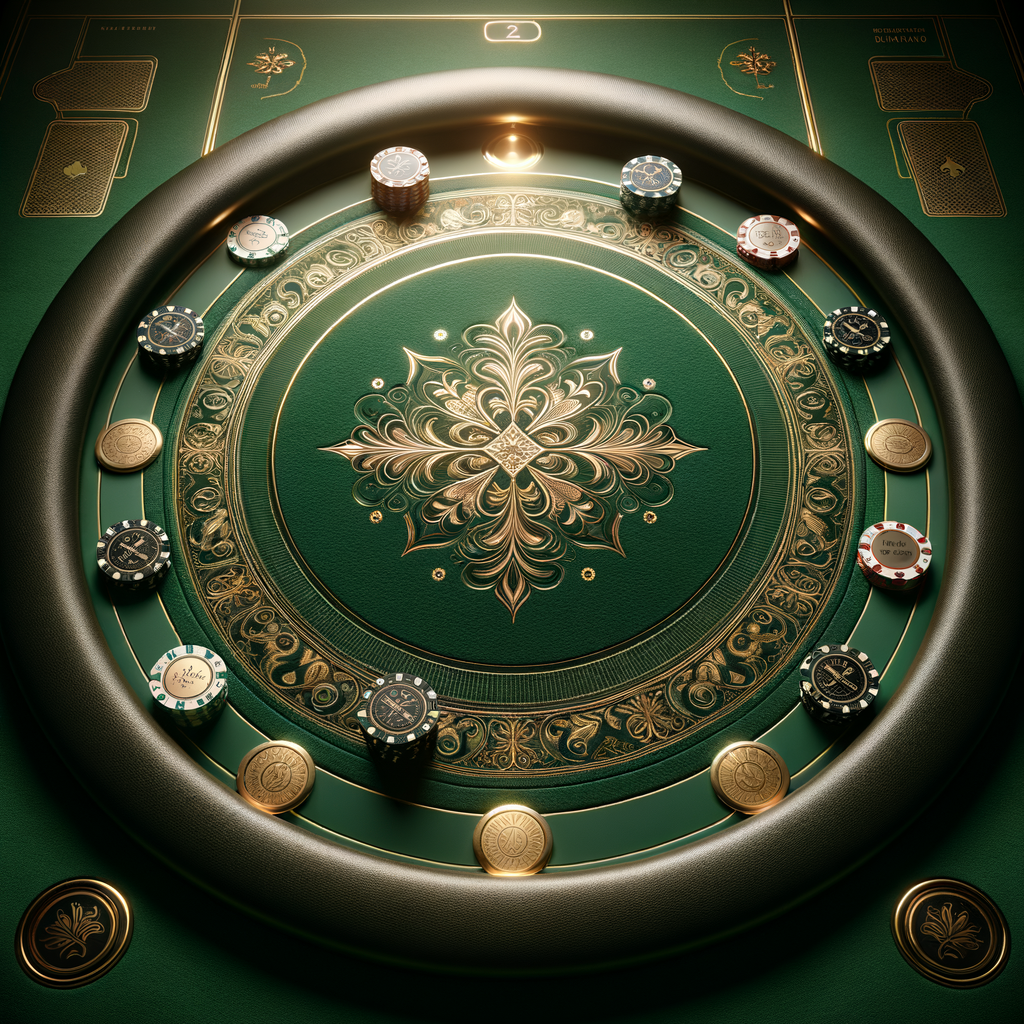
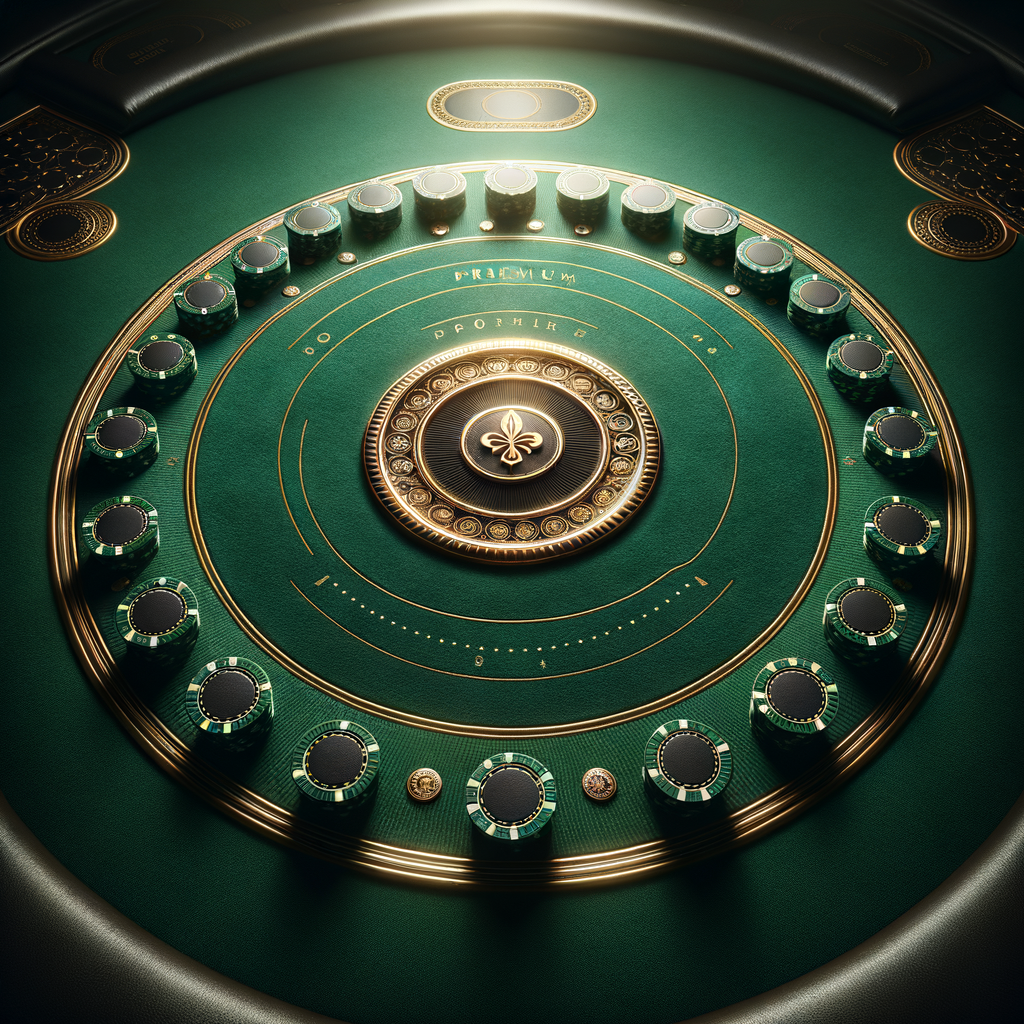
VIP Poker overhaul: cards on table, 3D buttons, new images, no confetti
- Player cards moved ON the table (bottom edge, overlapping oval)
  with name, bet and hand name shown below
- Human strip simplified to avatar + chips + bet only
- 3D buttons: thick bottom border creates depth, snaps on :active
  (Fold=red, Check=green, Call=blue, Raise=orange, AllIn=purple, Deal=gold)
- New DALL-E HD felt texture: deep emerald with gold ring watermark
- New room background: dark VIP lounge, zero furniture visible
- slots.html: rainbow mega-win text → gold shimmer animation
- SocialWins: gold coin shower restored (was wrongly disabled)

diff --git a/public/index.html b/public/index.html
@@ -3555,7 +3555,7 @@ body { color: #e8e2d4 !important; }
   align-items: center;
   justify-content: center;
   min-height: 380px;
-  padding: 0;
+  padding: 0 0 80px 0; /* bottom space for player cards below table */
 }
 
 /* ── THE OVAL TABLE ── */
@@ -3718,6 +3718,34 @@ body { color: #e8e2d4 !important; }
   transform: translateY(-50%);
 }
 
+/* ── PLAYER CARDS ON TABLE ── */
+.pp-on-table-player {
+  position: absolute;
+  bottom: -68px;
+  left: 50%; transform: translateX(-50%);
+  display: flex; flex-direction: column; align-items: center; gap: 3px;
+  z-index: 20;
+  pointer-events: none;
+}
+.pp-on-table-label {
+  font-size: 9px; font-weight: 700; color: rgba(201,168,76,0.8);
+  letter-spacing: 1.5px; text-transform: uppercase;
+  text-shadow: 0 1px 4px rgba(0,0,0,0.8);
+  white-space: nowrap;
+}
+.pp-on-table-bet { color: #f0c060; }
+.pp-on-table-cards {
+  display: flex; gap: 8px;
+  filter: drop-shadow(0 4px 12px rgba(0,0,0,0.7)) drop-shadow(0 0 8px rgba(201,168,76,0.25));
+}
+.pp-on-table-hand {
+  font-size: 9px; color: #f0c060; font-weight: 700;
+  letter-spacing: 1px; text-shadow: 0 0 8px rgba(240,192,96,0.5);
+}
+.pp-on-table-folded {
+  font-size: 9px; color: rgba(255,100,100,0.7); letter-spacing: 2px;
+}
+
 /* ── HUMAN STRIP ── */
 .pp-human-strip {
   display: flex; align-items: center;
@@ -3767,27 +3795,87 @@ body { color: #e8e2d4 !important; }
 }
 .pp-btn-row { display: flex; gap: 7px; }
 .pp-btn {
-  flex: 1; padding: 13px 6px; border: none; border-radius: 10px;
+  flex: 1; padding: 13px 6px;
+  border: none; border-radius: 10px;
   font-weight: 700; font-size: 12px; letter-spacing: 0.3px;
   cursor: pointer; font-family: 'Space Grotesk',sans-serif;
-  transition: opacity 0.15s, transform 0.1s, box-shadow 0.15s;
   line-height: 1.2; text-align: center;
+  position: relative;
+  /* 3D effect */
+  transform: translateY(0px);
+  transition: transform 0.08s ease, box-shadow 0.08s ease, filter 0.08s ease;
 }
-.pp-btn:active { transform: scale(0.93); opacity: 0.82; }
+.pp-btn:active {
+  transform: translateY(3px) !important;
+  filter: brightness(0.88);
+}
+.pp-btn:hover { filter: brightness(1.12); }
+
+/* DEAL — gold 3D */
 .pp-btn-deal {
-  background: linear-gradient(135deg, #d4a840 0%, #b08030 50%, #c9a84c 100%);
-  color: #0a0704; font-size: 15px; padding: 15px;
+  background: linear-gradient(180deg, #f0d060 0%, #c9a030 40%, #a07820 100%);
+  color: #2a1800; font-size: 15px; padding: 15px;
   font-family: 'Cinzel',serif; letter-spacing: 2.5px; font-weight: 900;
-  box-shadow: 0 4px 28px rgba(201,168,76,0.45), 0 0 0 1px rgba(255,215,0,0.2);
-  border: 1px solid rgba(255,215,0,0.35);
-  text-shadow: 0 1px 2px rgba(0,0,0,0.2);
+  border-top: 1px solid rgba(255,240,120,0.6);
+  border-bottom: 4px solid #7a5810;
+  box-shadow: 0 6px 24px rgba(201,168,76,0.5), 0 2px 0 rgba(255,220,80,0.3);
+  text-shadow: 0 1px 0 rgba(255,255,255,0.3);
 }
-.pp-btn-deal:hover { box-shadow: 0 6px 36px rgba(201,168,76,0.6), 0 0 0 1px rgba(255,215,0,0.3); }
-.pp-btn-fold  { background: linear-gradient(135deg, #b03044, #8a1f30); color: #fff; box-shadow: 0 3px 14px rgba(176,48,68,0.35); }
-.pp-btn-check { background: linear-gradient(135deg, #27784a, #1a5534); color: #fff; box-shadow: 0 3px 14px rgba(39,120,74,0.35); }
-.pp-btn-call  { background: linear-gradient(135deg, #1258aa, #0c3d7a); color: #fff; box-shadow: 0 3px 14px rgba(18,88,170,0.35); }
-.pp-btn-raise { background: linear-gradient(135deg, #b84800, #8a3400); color: #fff; box-shadow: 0 3px 14px rgba(184,72,0,0.35); }
-.pp-btn-allin { background: linear-gradient(135deg, #6a1b9a, #4a0f72); color: #fff; box-shadow: 0 3px 14px rgba(106,27,154,0.4); border: 1px solid rgba(180,80,255,0.2); }
+.pp-btn-deal:active { border-bottom-width: 1px; }
+
+/* FOLD — red 3D */
+.pp-btn-fold {
+  background: linear-gradient(180deg, #d94058 0%, #9e2035 100%);
+  color: #fff;
+  border-top: 1px solid rgba(255,120,140,0.4);
+  border-bottom: 4px solid #5c1020;
+  box-shadow: 0 4px 16px rgba(176,48,68,0.4);
+  text-shadow: 0 1px 2px rgba(0,0,0,0.4);
+}
+.pp-btn-fold:active { border-bottom-width: 1px; }
+
+/* CHECK — green 3D */
+.pp-btn-check {
+  background: linear-gradient(180deg, #30a060 0%, #1a6a3a 100%);
+  color: #fff;
+  border-top: 1px solid rgba(80,220,120,0.35);
+  border-bottom: 4px solid #0e3d20;
+  box-shadow: 0 4px 16px rgba(39,120,74,0.4);
+  text-shadow: 0 1px 2px rgba(0,0,0,0.4);
+}
+.pp-btn-check:active { border-bottom-width: 1px; }
+
+/* CALL — blue 3D */
+.pp-btn-call {
+  background: linear-gradient(180deg, #1e72cc 0%, #0c4490 100%);
+  color: #fff;
+  border-top: 1px solid rgba(80,160,255,0.35);
+  border-bottom: 4px solid #062855;
+  box-shadow: 0 4px 16px rgba(18,88,170,0.4);
+  text-shadow: 0 1px 2px rgba(0,0,0,0.4);
+}
+.pp-btn-call:active { border-bottom-width: 1px; }
+
+/* RAISE — orange 3D */
+.pp-btn-raise {
+  background: linear-gradient(180deg, #d46000 0%, #8a3800 100%);
+  color: #fff;
+  border-top: 1px solid rgba(255,160,60,0.35);
+  border-bottom: 4px solid #4e2000;
+  box-shadow: 0 4px 16px rgba(184,72,0,0.4);
+  text-shadow: 0 1px 2px rgba(0,0,0,0.4);
+}
+.pp-btn-raise:active { border-bottom-width: 1px; }
+
+/* ALL IN — purple 3D */
+.pp-btn-allin {
+  background: linear-gradient(180deg, #8030c0 0%, #4e1080 100%);
+  color: #fff;
+  border-top: 1px solid rgba(180,80,255,0.35);
+  border-bottom: 4px solid #2c0850;
+  box-shadow: 0 4px 16px rgba(106,27,154,0.45);
+  text-shadow: 0 1px 2px rgba(0,0,0,0.4);
+}
 
 .pp-raise-row {
   display: flex; align-items: center; gap: 9px; padding: 0 2px;
@@ -3956,7 +4044,9 @@ body { color: #e8e2d4 !important; }
 
 /* ── MOBILE OVERRIDES (≤ 600px) ── */
 @media (max-width: 600px) {
-  .pp-table-zone { min-height: 340px; padding: 0; }
+  .pp-table-zone { min-height: 340px; padding: 0 0 72px 0; }
+  .pp-on-table-player { bottom: -62px; }
+  .pp-on-table-cards { gap: 6px; }
   .pp-table { width: 72vw !important; height: 46vw !important; }
   .pp-seat { min-width: 62px; padding: 5px 7px; border-radius: 10px; }
   /* LEFT — Diamond Ray */
@@ -8019,26 +8109,36 @@ function PremiumPoker({user,setUser,t,setPage}){
           {!gs.msg&&gs.phase==='idle'&&(
             <div className="pp-table-idle">♛ VIP TABLE — Press DEAL</div>
           )}
+          {/* PLAYER CARDS ON TABLE — bottom edge */}
+          {gs.phase!=='idle'&&(
+            <div className="pp-on-table-player">
+              <div className="pp-on-table-label">
+                {gs.winners.includes('human')?'👑':isMyTurn?'▶':''} {human?human.name:'YOU'}
+                {human&&human.bet>0&&<span className="pp-on-table-bet"> · BET {fmt(human.bet)}</span>}
+              </div>
+              <div className="pp-on-table-cards">
+                <PPCard card={human&&human.hole[0]||null} hidden={false}/>
+                <PPCard card={human&&human.hole[1]||null} hidden={false}/>
+              </div>
+              {myHand&&<div className="pp-on-table-hand">{myHand.name}</div>}
+              {human&&human.folded&&<div className="pp-on-table-folded">FOLDED</div>}
+            </div>
+          )}
         </div>
 
       </div>
 
-      {/* HUMAN STRIP */}
+      {/* HUMAN STRIP — compact info only, cards moved to table */}
       <div className={'pp-human-strip'+(isMyTurn?' pp-human-active':'')}>
-        <div className="pp-human-left">
-          <div className={'pp-human-avatar'+(isMyTurn?' pp-human-glow':'')}>
-            {gs.winners.includes('human')?String.fromCodePoint(0x1F451):String.fromCodePoint(0x1F464)}
-          </div>
-          <div className="pp-human-meta">
-            <span className="pp-human-name">{human?human.name:'You'}</span>
-            <span className="pp-human-chips">{String.fromCodePoint(0x1F4B0)} {human?fmt(human.chips):0}</span>
-          </div>
-          {human&&human.bet>0&&<div className="pp-human-bet">BET {fmt(human.bet)}</div>}
+        <div className={'pp-human-avatar'+(isMyTurn?' pp-human-glow':'')}>
+          {gs.winners.includes('human')?String.fromCodePoint(0x1F451):String.fromCodePoint(0x1F464)}
         </div>
-        <div className="pp-human-cards">
-          <PPCard card={human&&human.hole[0]||null} hidden={false}/>
-          <PPCard card={human&&human.hole[1]||null} hidden={false}/>
+        <div className="pp-human-meta" style={{flex:1}}>
+          <span className="pp-human-name">{human?human.name:'You'}</span>
+          <span className="pp-human-chips">{String.fromCodePoint(0x1F4B0)} {human?fmt(human.chips):0}</span>
         </div>
+        {human&&human.bet>0&&<div className="pp-human-bet">BET {fmt(human.bet)}</div>}
+        {myHand&&gs.phase!=='idle'&&<div className="pp-hand-pill" style={{minWidth:'unset'}}>{myHand.name}</div>}
       </div>
 
       {/* ACTION BAR */}

diff --git a/public/slots.html b/public/slots.html
@@ -381,10 +381,12 @@ body::before {
 }
 .win-kind.mega {
   font-size: 16px; letter-spacing: 4px;
-  animation: rainbow 1s linear infinite;
+  animation: goldShimmer 1.4s ease-in-out infinite alternate;
 }
-@keyframes rainbow {
-  0%{color:#ff4466}16%{color:#ff8820}33%{color:#ffe033}50%{color:#00ff88}66%{color:#00e5ff}83%{color:#aa44ff}100%{color:#ff4466}
+@keyframes goldShimmer {
+  0%  { color: #ffd700; text-shadow: 0 0 18px rgba(255,215,0,0.9), 0 0 40px rgba(255,180,0,0.5); }
+  50% { color: #fff4b0; text-shadow: 0 0 28px rgba(255,244,176,1),  0 0 60px rgba(255,215,0,0.7); }
+  100%{ color: #f0a800; text-shadow: 0 0 18px rgba(240,168,0,0.9),  0 0 40px rgba(255,140,0,0.5); }
 }
 .win-amount {
   font-family: 'Orbitron', monospace; font-weight: 900;
